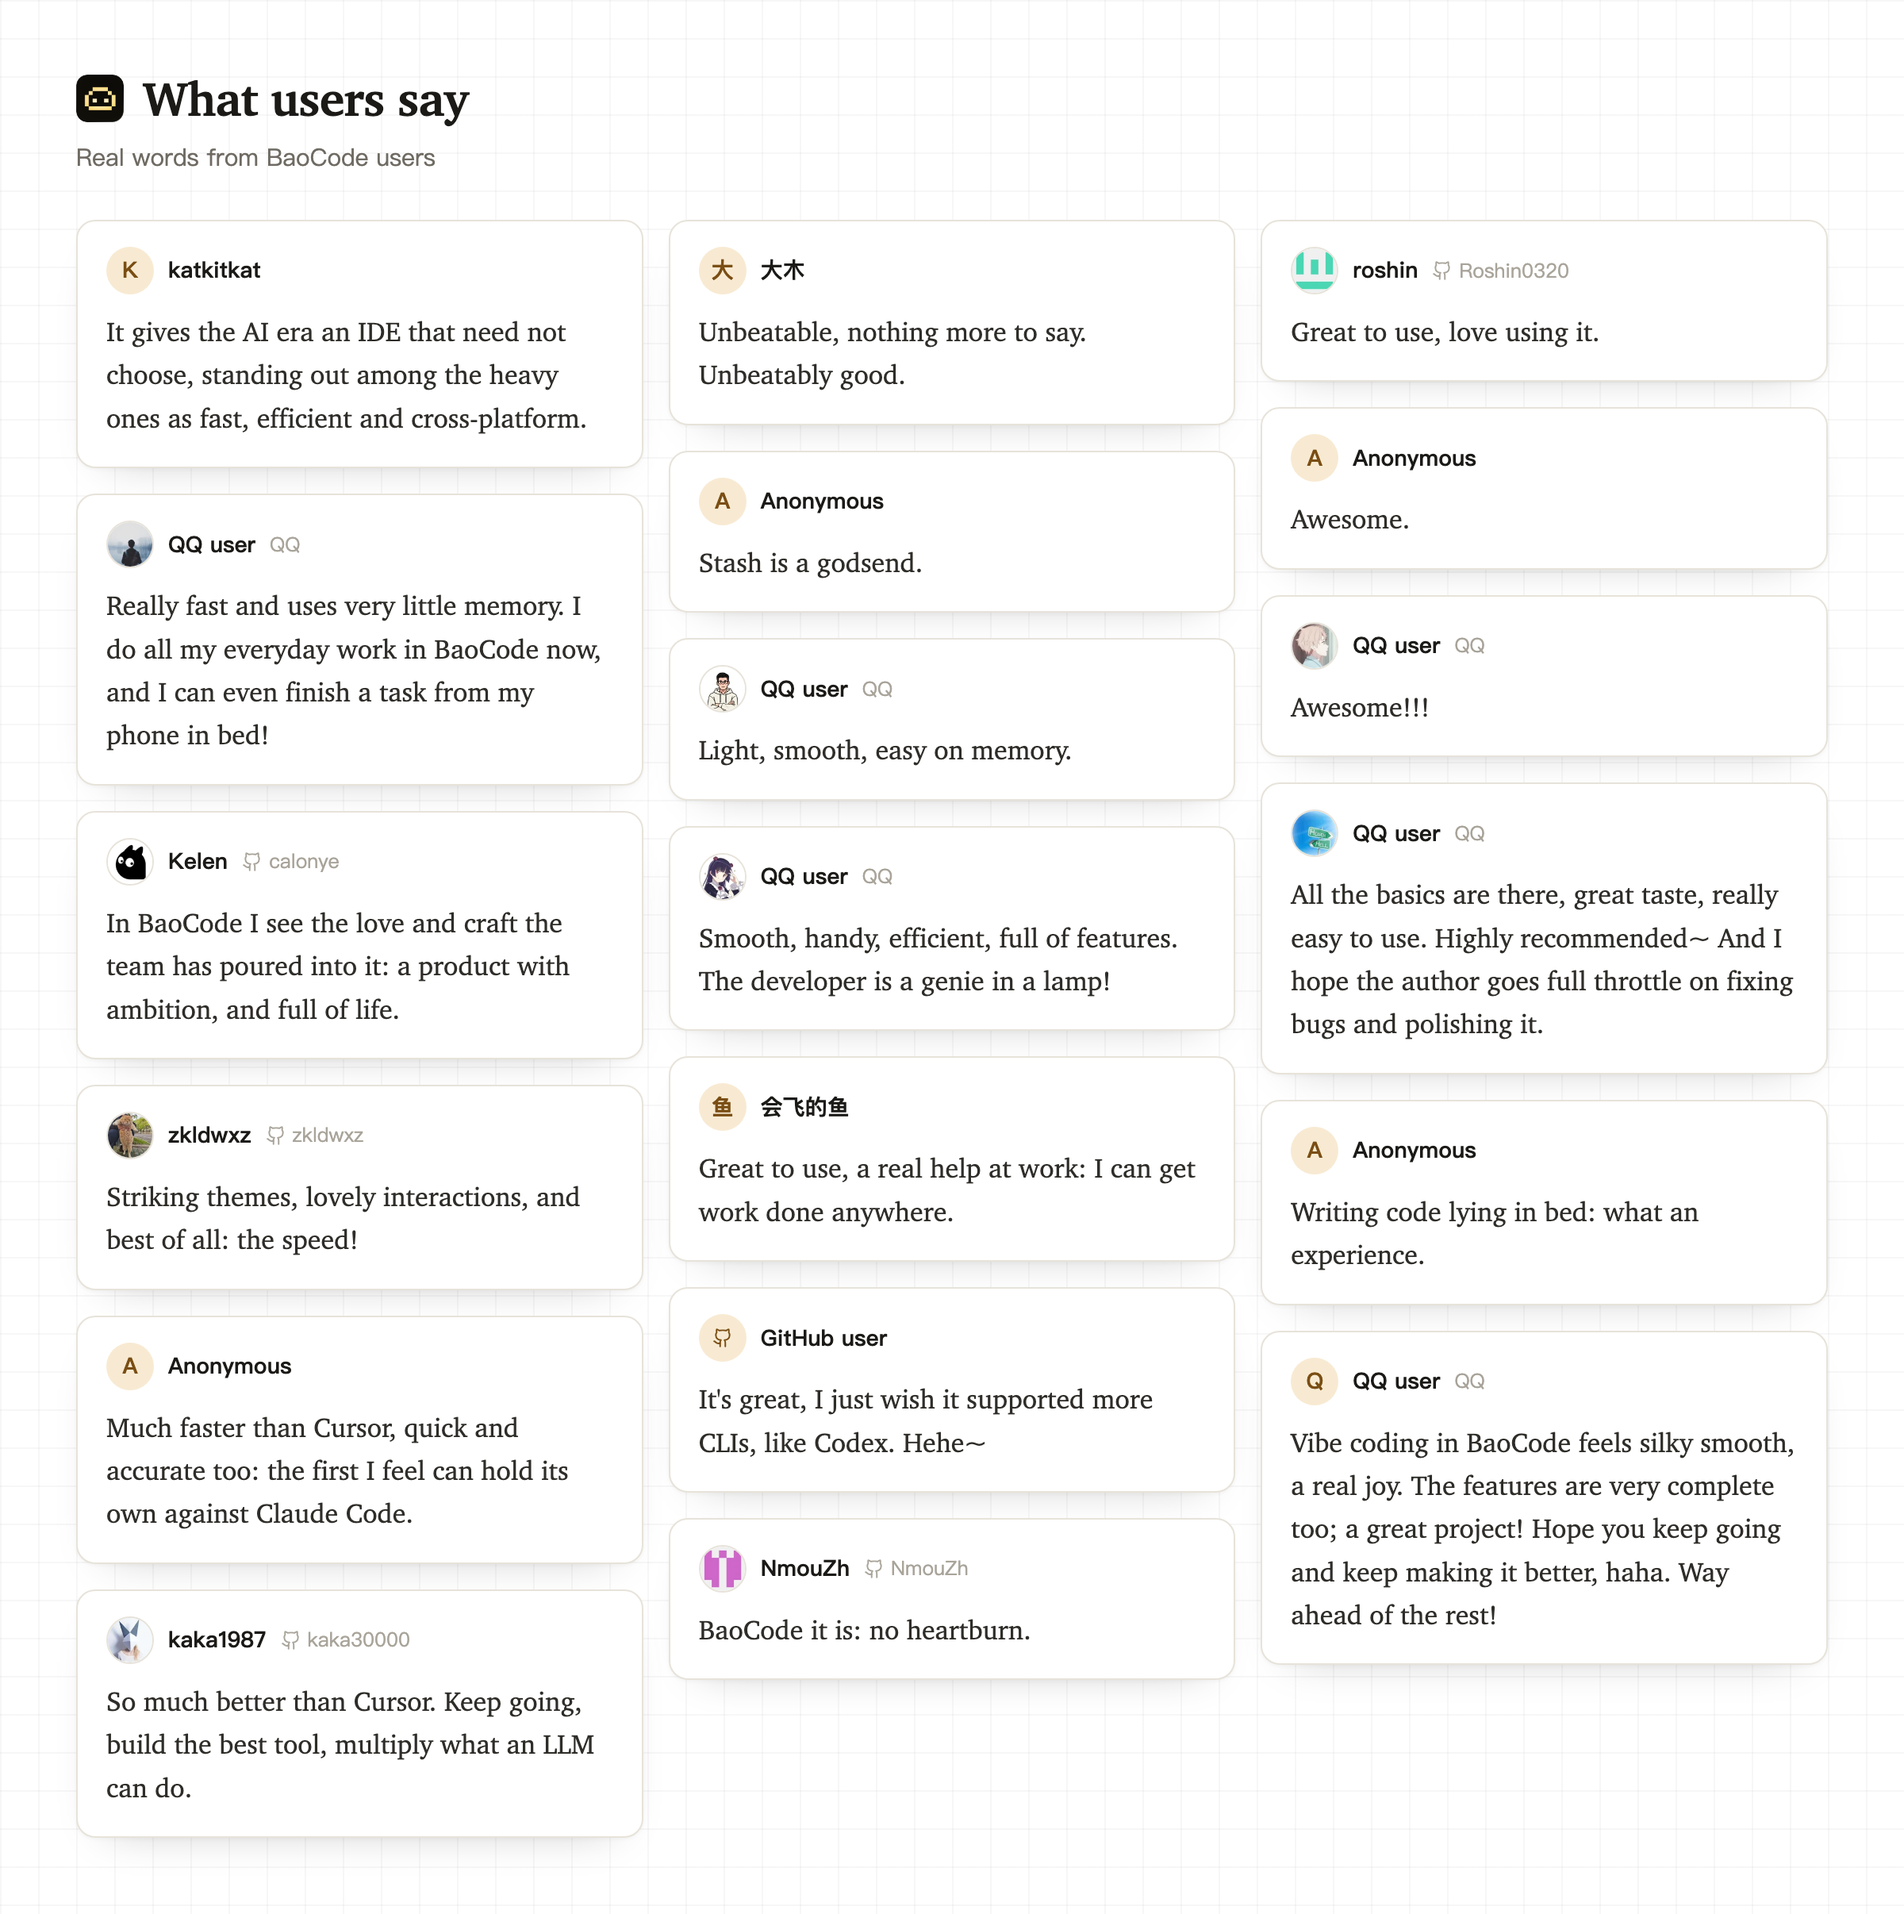
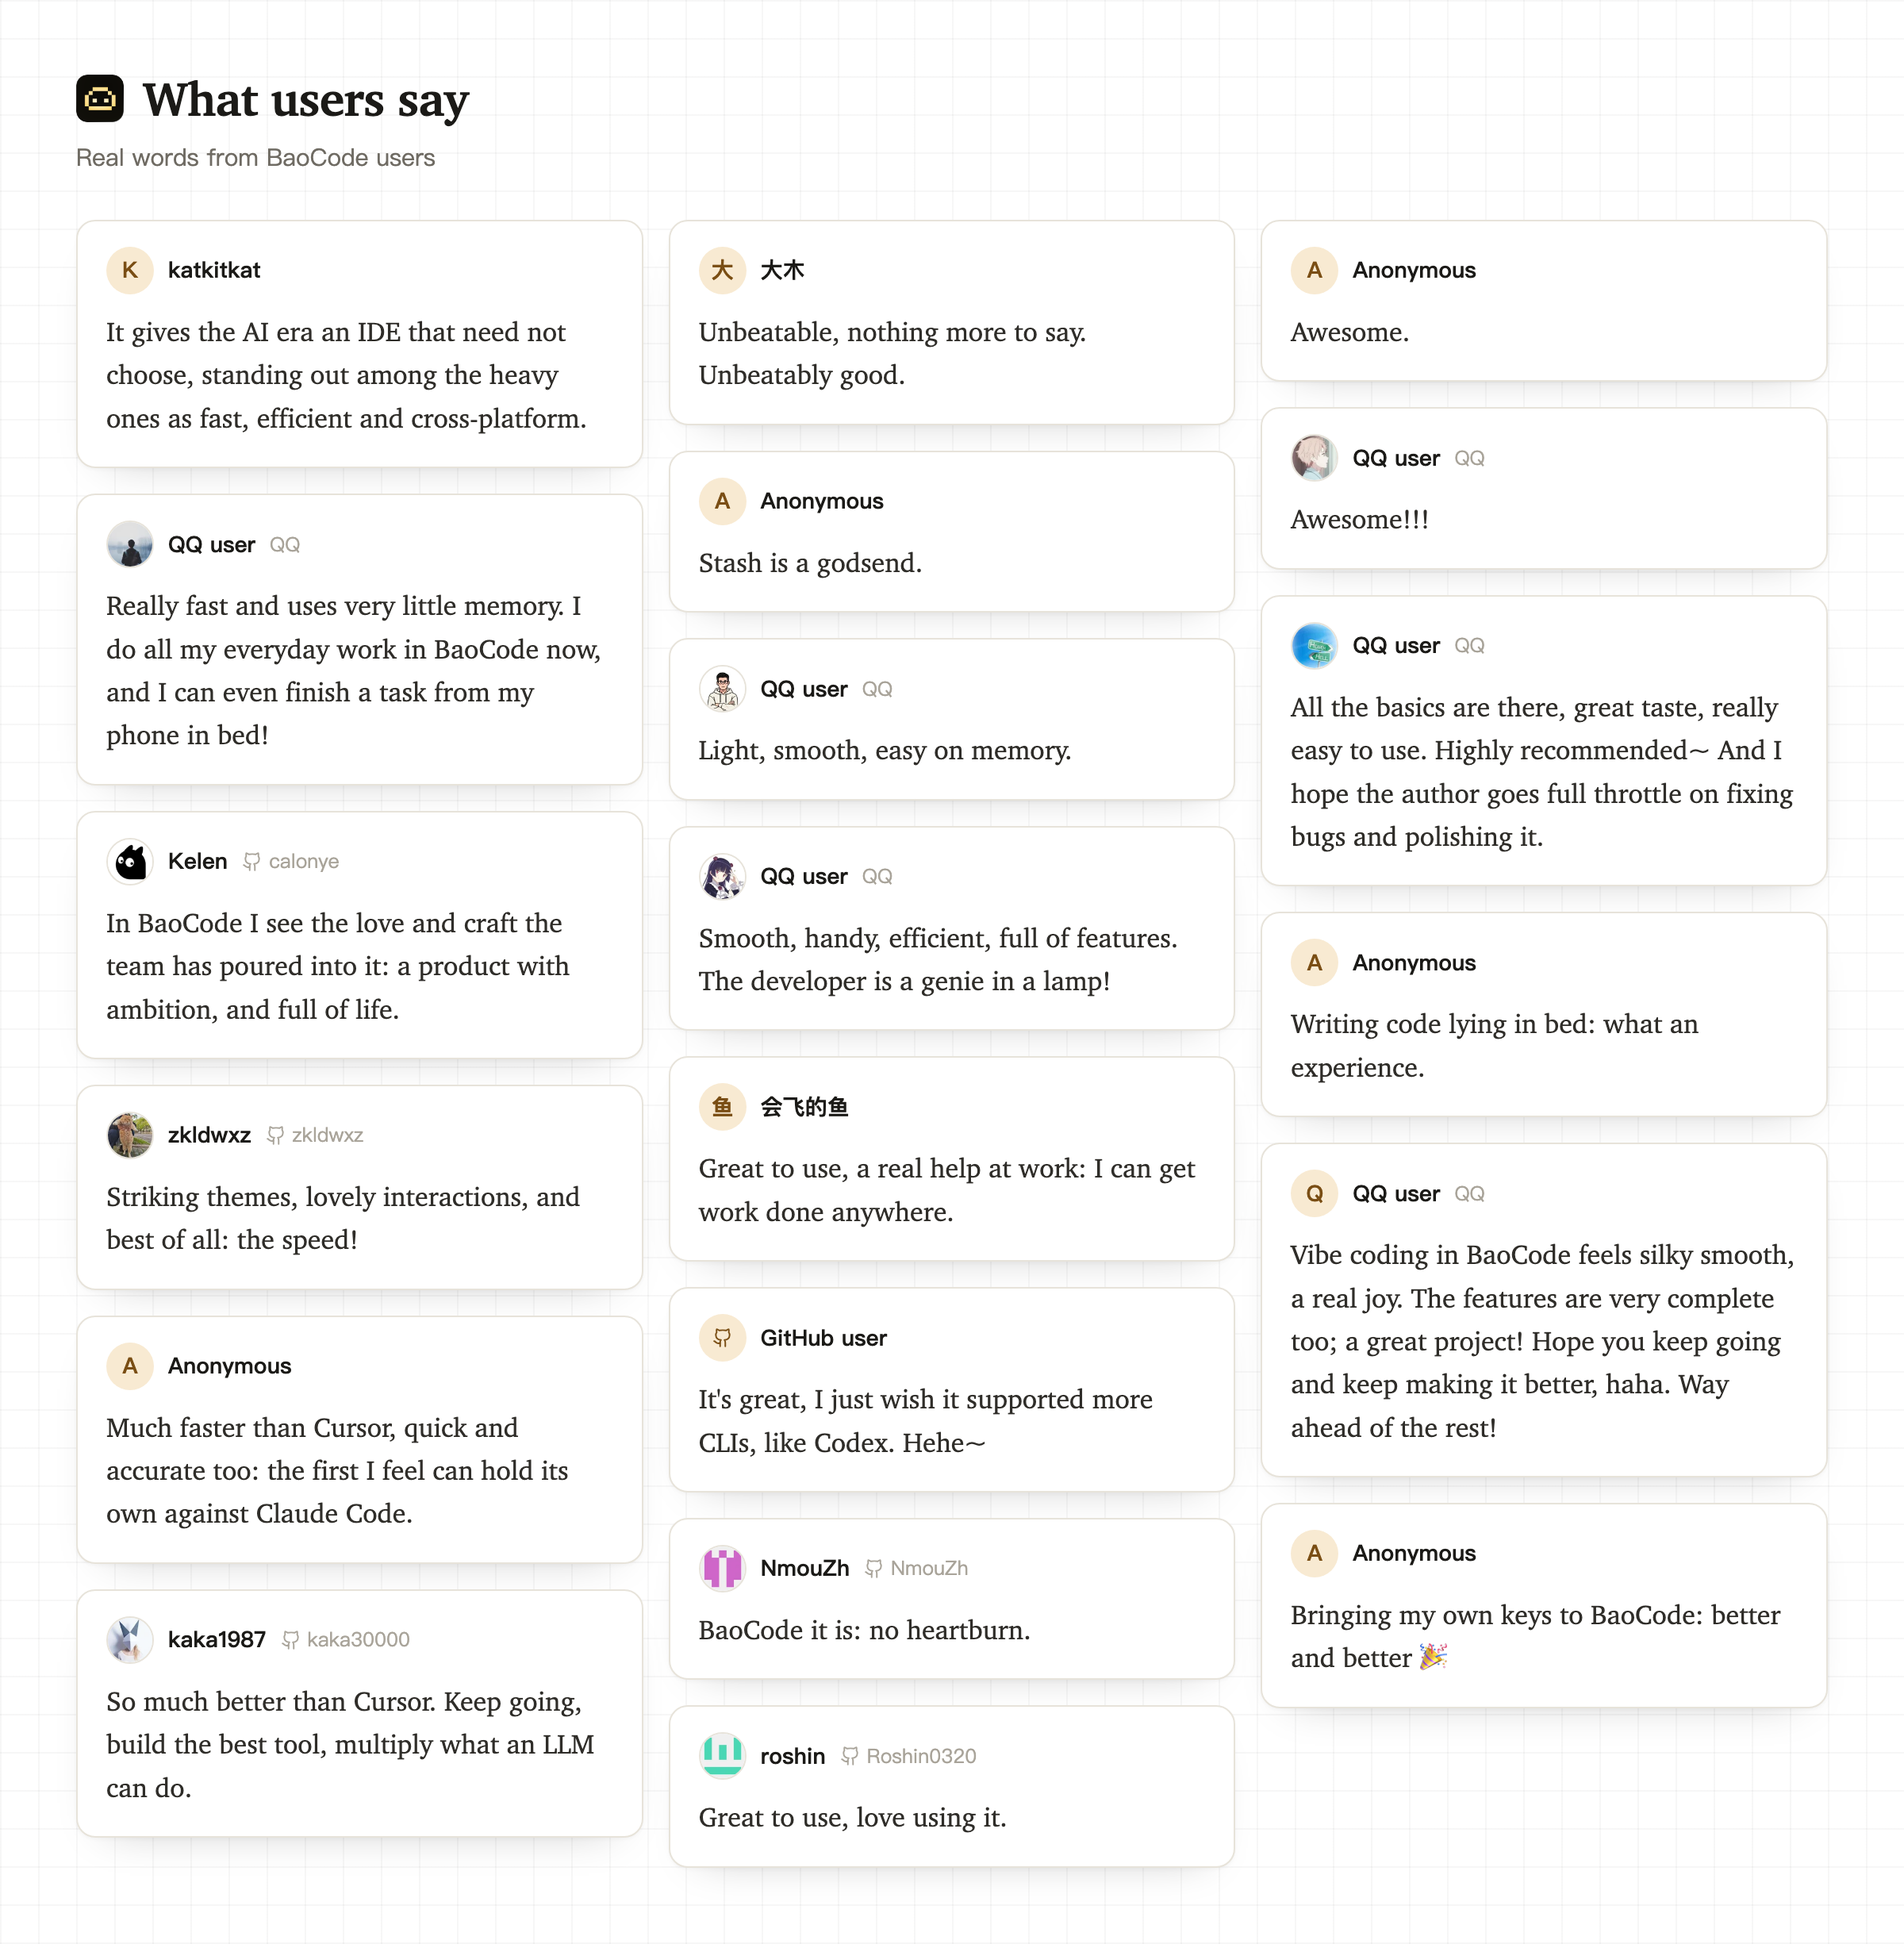
site: one more review

diff --git a/site/index.html b/site/index.html
@@ -76,6 +76,7 @@
     <li><span class="who"><img src="/reviews/10.webp" alt="">QQ user<small>QQ</small></span><blockquote>All the basics are there, great taste, really easy to use. Highly recommended~ And I hope the author goes full throttle on fixing bugs and polishing it.</blockquote></li>
     <li><span class="who"><span class="avatar">A</span>Anonymous</span><blockquote>Writing code lying in bed: what an experience.</blockquote></li>
     <li><span class="who"><span class="avatar">Q</span>QQ user<small>QQ</small></span><blockquote>Vibe coding in BaoCode is silky smooth, and it does it all. A great project! Keep going, way ahead of the rest!</blockquote></li>
+    <li><span class="who"><span class="avatar">A</span>Anonymous</span><blockquote>Bringing my own keys to BaoCode: better and better 🎉</blockquote></li>
   </ul>
 </section>
 <p class="say-line">Used BaoCode? <button type="button" data-say-open>Say a word</button></p>

diff --git a/site/zh/index.html b/site/zh/index.html
@@ -75,6 +75,7 @@
     <li><span class="who"><img src="/reviews/10.webp" alt="">QQ 用户<small>QQ</small></span><blockquote>基本功能都有了，审美在线，非常好用，强烈推荐～同时希望作者开足马力修 bug、完善体验。</blockquote></li>
     <li><span class="who"><span class="avatar">匿</span>匿名</span><blockquote>躺床上写代码，真是好体验。</blockquote></li>
     <li><span class="who"><span class="avatar">Q</span>QQ 用户<small>QQ</small></span><blockquote>用 BaoCode vibe coding 非常丝滑，功能也很完善，非常好的项目！希望博主不要停，遥遥领先！</blockquote></li>
+    <li><span class="who"><span class="avatar">匿</span>匿名</span><blockquote>BYOK 到 BaoCode，越来越棒 🎉</blockquote></li>
   </ul>
 </section>
 <p class="say-line">用过 BaoCode？<button type="button" data-say-open>说一句</button></p>
